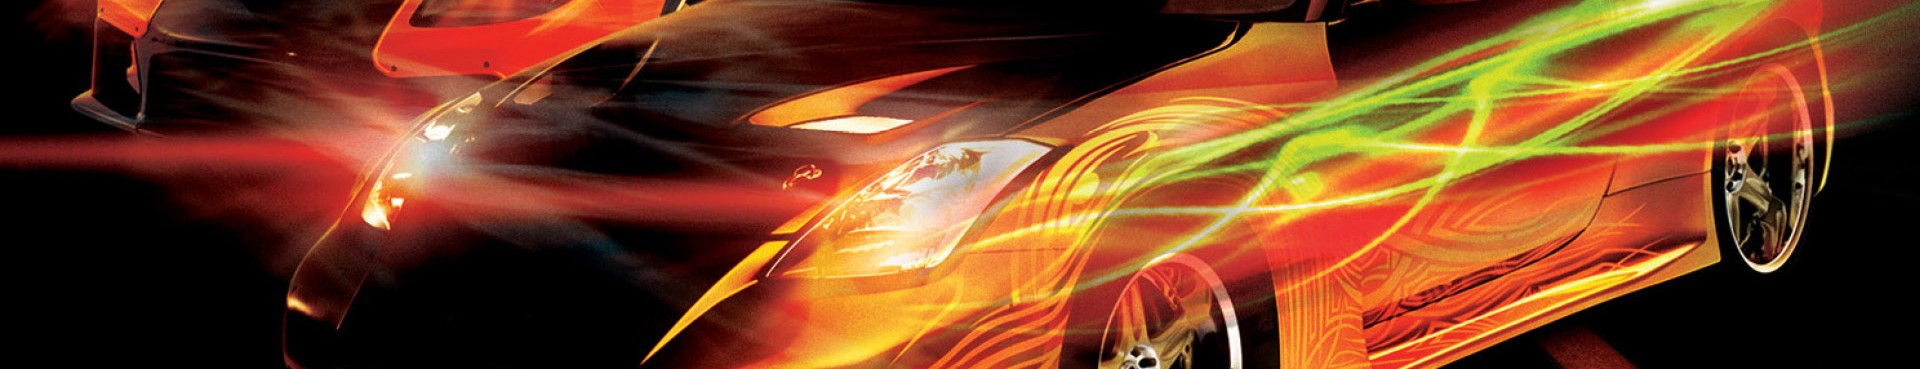
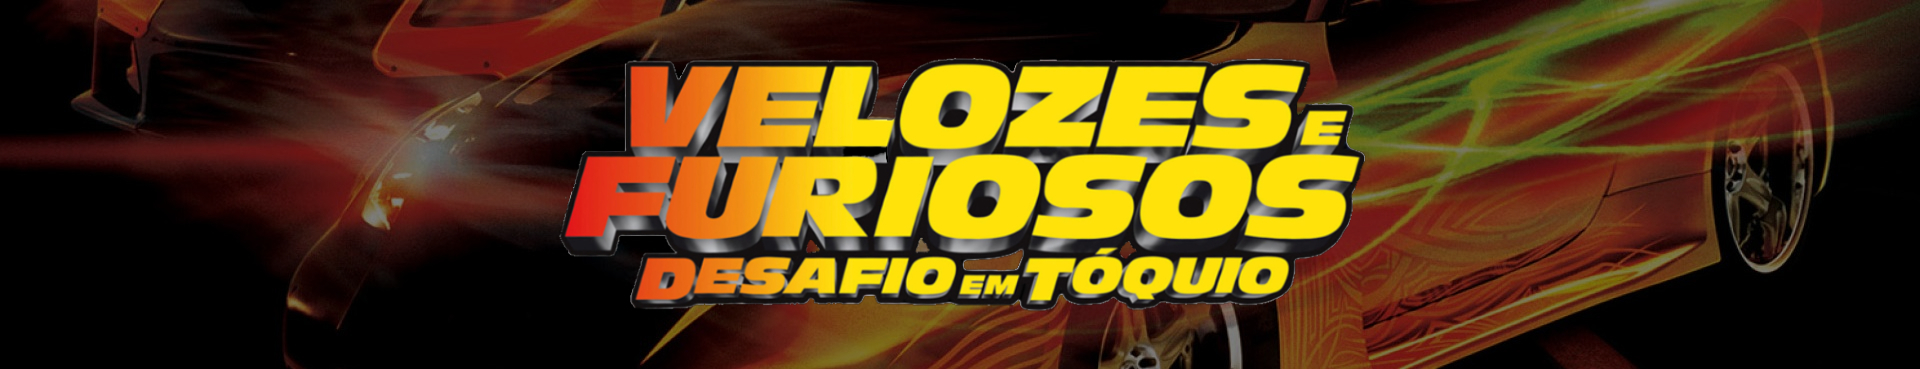
Codando páginas de Personagens e outras atualizações gerais

diff --git a/public/personagens.html b/public/personagens.html
@@ -9,7 +9,6 @@
 <body>
     <div class="cabecalho">
         <img class="img-cabecalho" src="assets/imgs/cabecalho.jpg" alt="">
-        <img class="img-titulo" src="assets/imgs/titulo.png" alt="Titulo dos Velozes e Furiosos - Desafio em Tokyo">
     </div>
     <header class="header">
         <p><a href="home.html">Home</a></p>
@@ -23,7 +22,7 @@
             Lorem ipsum dolor sit amet consectetur adipiscing elit. Quisque faucibus ex sapien vitae pellentesque sem placerat. In id cursus mi pretium tellus duis convallis. Tempus leo eu aenean sed diam urna tempor. Pulvinar vivamus fringilla lacus nec metus bibendum egestas. Iaculis massa nisl malesuada lacinia integer nunc posuere. Ut hendrerit semper vel class aptent taciti sociosqu. Ad litora torquent per conubia nostra inceptos himenaeos. rem ipsum dolor sit amet consectetur adipiscing elit. Quisque faucibus ex sapien vitae pellentesque sem placerat. In id cursus mi pretium tellus duis convallis. Tempus leo eu aenean sed diam urna tempor. Pulvinar vivamus fringilla lacus nec metus bibendum egestas. Iaculis massa nisl malesuada lacinia integer nunc posuere. Ut hendrerit semper vel class aptent taciti sociosqu. Ad litora torquent per conubia nostra inceptos himenaeos.
         </p> <br><br><br><br>
         <div class="container-1">
-           <div class="card">
+            <div class="card"> <!-- Sean -->
                 <div class="centralizador">
                     <img class="img-card" src="assets/imgs/sean.jpg" alt="Foto do personagem Sean Boswell">
                 </div><br><br>
@@ -33,9 +32,41 @@
                 <div class="centralizador">
                     <img class="img-card" src="assets/imgs/evo.jpg" alt="Foto do carro do Personagem Sean Boswell, um lancer evo 9 vermelho">
                 </div>
-           </div>
-           <div class="card">
-                
+            </div>
+            <div class="card"> <!-- Han -->
+                <div class="centralizador">
+                    <img class="img-card" src="assets/imgs/han.png" alt="Foto do personagem Sean Boswell">
+                </div><br><br>
+                <p class="texto-container-1">
+                    Lorem ipsum dolor sit amet consectetur adipiscing elit. Quisque faucibus ex sapien vitae pellentesque sem placerat. In id cursus mi pretium tellus duis convallis. Tempus leo eu aenean sed diam urna tempor. Pulvinar vivamus fringilla lacus nec metus bibendum egestas. Iaculis massa nisl malesuada lacinia integer nunc posuere. Ut hendrerit semper vel class aptent taciti sociosqu. Ad litora torquent per conubia nostra inceptos himenaeos. rem ipsum dolor sit amet consectetur adipiscing elit. Quisque faucibus ex sapien vitae pellentesque sem placerat. In id cursus mi pretium tellus duis convallis. Tempus leo eu aenean sed diam urna tempor. Pulvinar vivamus fringilla lacus nec metus bibendum egestas. Iaculis massa nisl malesuada lacinia integer nunc posuere. Ut hendrerit semper vel class aptent taciti sociosqu. Ad litora torquent per conubia nostra inceptos himenaeos. 
+                </p><br><br>
+                <div class="centralizador">
+                    <img class="img-card" src="assets/imgs/vf5.jpg" alt="Foto do carro do Personagem Sean Boswell, um lancer evo 9 vermelho">
+                </div>
+            </div>
+        </div>
+        <div class="container-1">
+            <div class="card"> <!-- Neela -->
+                <div class="centralizador">
+                    <img class="img-card" src="assets/imgs/neela.png" alt="Foto do personagem Sean Boswell">
+                </div><br><br>
+                <p class="texto-container-1">
+                    Lorem ipsum dolor sit amet consectetur adipiscing elit. Quisque faucibus ex sapien vitae pellentesque sem placerat. In id cursus mi pretium tellus duis convallis. Tempus leo eu aenean sed diam urna tempor. Pulvinar vivamus fringilla lacus nec metus bibendum egestas. Iaculis massa nisl malesuada lacinia integer nunc posuere. Ut hendrerit semper vel class aptent taciti sociosqu. Ad litora torquent per conubia nostra inceptos himenaeos. rem ipsum dolor sit amet consectetur adipiscing elit. Quisque faucibus ex sapien vitae pellentesque sem placerat. In id cursus mi pretium tellus duis convallis. Tempus leo eu aenean sed diam urna tempor. Pulvinar vivamus fringilla lacus nec metus bibendum egestas. Iaculis massa nisl malesuada lacinia integer nunc posuere. Ut hendrerit semper vel class aptent taciti sociosqu. Ad litora torquent per conubia nostra inceptos himenaeos. 
+                </p><br><br>
+                <div class="centralizador">
+                    <img class="img-card" src="assets/imgs/neelacar.jpeg" alt="Foto do carro do Personagem Sean Boswell, um lancer evo 9 vermelho">
+                </div>
+            </div>
+            <div class="card"> <!-- DK -->
+                <div class="centralizador">
+                    <img class="img-card" src="assets/imgs/dk2.jpg" alt="Foto do personagem Sean Boswell">
+                </div><br><br>
+                <p class="texto-container-1">
+                    Lorem ipsum dolor sit amet consectetur adipiscing elit. Quisque faucibus ex sapien vitae pellentesque sem placerat. In id cursus mi pretium tellus duis convallis. Tempus leo eu aenean sed diam urna tempor. Pulvinar vivamus fringilla lacus nec metus bibendum egestas. Iaculis massa nisl malesuada lacinia integer nunc posuere. Ut hendrerit semper vel class aptent taciti sociosqu. Ad litora torquent per conubia nostra inceptos himenaeos. rem ipsum dolor sit amet consectetur adipiscing elit. Quisque faucibus ex sapien vitae pellentesque sem placerat. In id cursus mi pretium tellus duis convallis. Tempus leo eu aenean sed diam urna tempor. Pulvinar vivamus fringilla lacus nec metus bibendum egestas. Iaculis massa nisl malesuada lacinia integer nunc posuere. Ut hendrerit semper vel class aptent taciti sociosqu. Ad litora torquent per conubia nostra inceptos himenaeos. 
+                </p><br><br>
+                <div class="centralizador">
+                    <img class="img-card" src="assets/imgs/dkcar.jpg" alt="Foto do carro do Personagem Sean Boswell, um lancer evo 9 vermelho">
+                </div>
             </div>
         </div>
     </div>

diff --git a/public/css/style.css b/public/css/style.css
@@ -1,31 +1,25 @@
 /* GERAL */
 body {
     font-family: Arial, Helvetica, sans-serif;
+    margin: 0px;
 }
 
 .cabecalho {
     width: 100%;
-    position: relative;
 }
 
 .cabecalho .img-cabecalho {
     width: 100%;
-    filter: brightness(40%);
-}
-
-.cabecalho .img-titulo {
-    width: 40%;
-    position: absolute;
-    top: 50%; /* Posiciona no meio verticalmente */
-    left: 50%; /* Posiciona no meio horizontalmente */
-    transform: translate(-50%, -50%); /* Centraliza perfeitamente */
 }
 
 .header {
     display: flex;
     align-items: center;
     justify-content: center;
-    background-color: #D9D9D9;
+    background-color: #c0c0c0;
+    position: sticky; /*fixar na tela*/
+    top: 0px;
+    z-index: 999; /*Ultima camada*/
 }
 
 .header a {
@@ -60,7 +54,6 @@ footer p {
 
 .container-1 {
     display: flex;
-    align-items: center;
     justify-content: center;
     justify-content: space-between;
     margin-bottom: 20px;

diff --git a/public/home.html b/public/home.html
@@ -9,7 +9,6 @@
 <body>
     <div class="cabecalho">
         <img class="img-cabecalho" src="assets/imgs/cabecalho.jpg" alt="Capa do Velozes e Furiosos - Desafio em Tokyo">
-        <img class="img-titulo" src="assets/imgs/titulo.png" alt="Titulo do Velozes e Furiosos - Desafio em Tokyo">
     </div>
     <header class="header">
         <p><a href="#" class="agora">Home</a></p>

diff --git a/public/quiz.html b/public/quiz.html
@@ -9,7 +9,6 @@
 <body>
     <div class="cabecalho">
         <img class="img-cabecalho" src="assets/imgs/cabecalho.jpg" alt="">
-        <img class="img-titulo" src="assets/imgs/titulo.png" alt="Titulo dos Velozes e Furiosos - Desafio em Tokyo">
     </div>
     <header class="header">
         <p><a href="home.html">Home</a></p>

diff --git a/public/sinopse.html b/public/sinopse.html
@@ -9,7 +9,6 @@
 <body>
     <div class="cabecalho">
         <img class="img-cabecalho" src="assets/imgs/cabecalho.jpg" alt="">
-        <img class="img-titulo" src="assets/imgs/titulo.png" alt="Titulo dos Velozes e Furiosos - Desafio em Tokyo">
     </div>
     <header class="header">
         <p><a href="home.html">Home</a></p>
